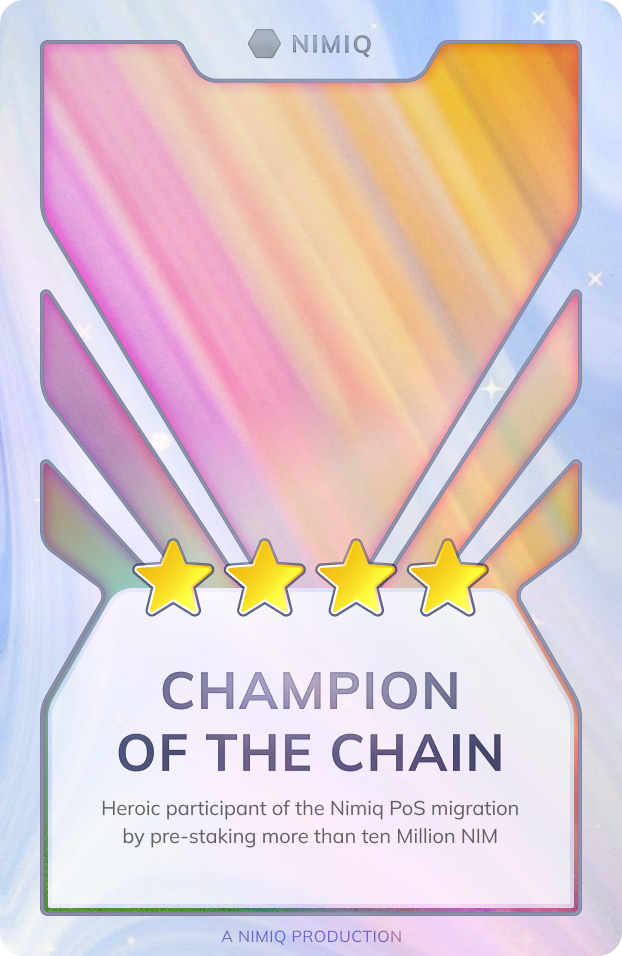
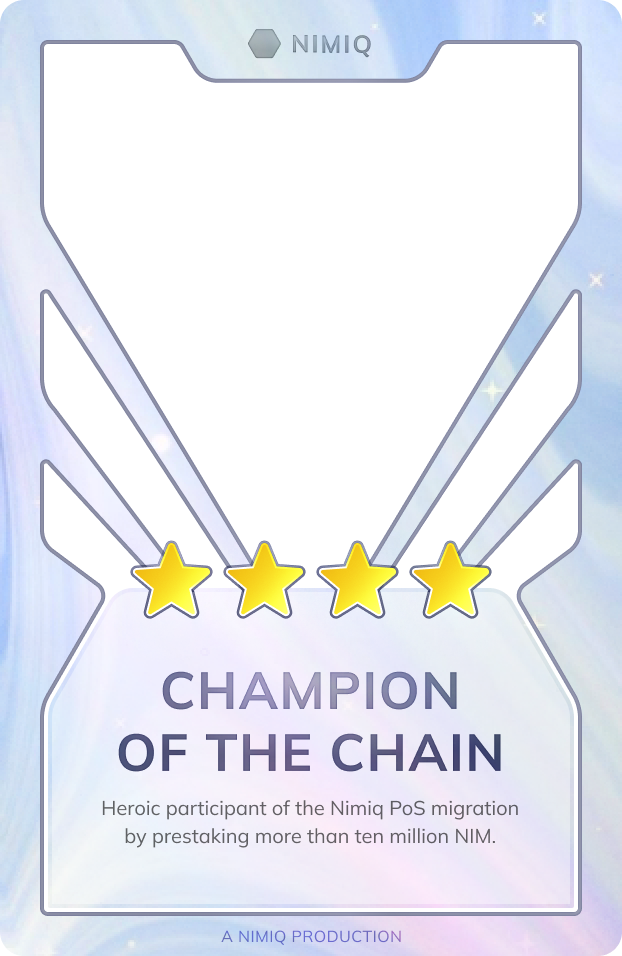
Update platinum card frame and backdrop to enable mouseover glow effect

diff --git a/app/components/TiltCard.vue b/app/components/TiltCard.vue
@@ -33,8 +33,13 @@ onMounted(() => {
 
 <template>
   <div class="relative overflow-hidden rounded-12 !h-478 !min-w-311 !w-311">
-    <NuxtImg v-if="cardType !== 'platinum'" src="/img/card-master-bg-rays.png" class="absolute left-0 top-0 z-0 h-full w-full" alt="" />
-    <div v-if="cardType !== 'platinum'" class="absolute left-0 top-0 z-0 h-full w-full mix-blend-color" :style="`background-color: ${identiconColor};`" />
+    <template v-if="cardType === 'platinum'">
+      <NuxtImg src="/img/cards/platinum-card-backdrop.png" class="absolute left-0 top-0 z-0 h-full w-full" alt="" />
+    </template>
+    <template v-else>
+      <NuxtImg src="/img/cards/card-backdrop-rays.png" class="absolute left-0 top-0 z-0 h-full w-full" alt="" />
+      <div class="absolute left-0 top-0 z-0 h-full w-full mix-blend-color" :style="`background-color: ${identiconColor};`" />
+    </template>
     <NuxtImg :src="`/img/cards/${cardType}-card-frame.png`" class="relative z-1 h-full w-full" alt="" srcset="" />
     <IdenticonCardHex class="left-1/2 top-78 z-4 !absolute -translate-x-1/2" :type="cardType" :color="identiconColor" />
     <div ref="$identicon" class="absolute left-1/2 top-74 z-5 scale-75 -translate-x-1/2" />
